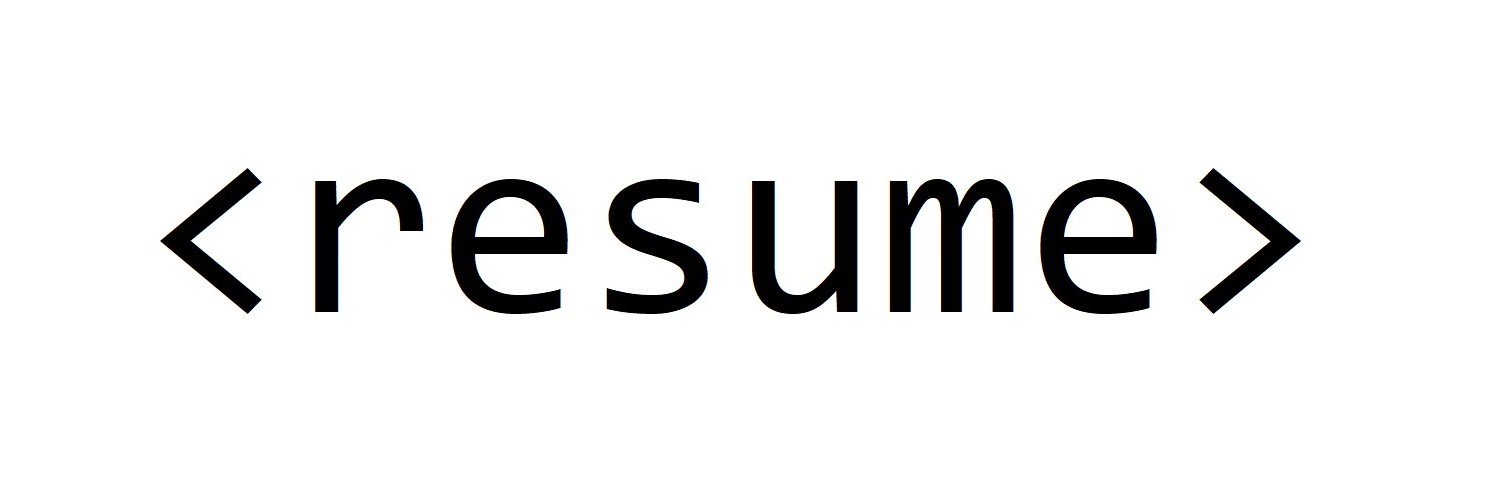
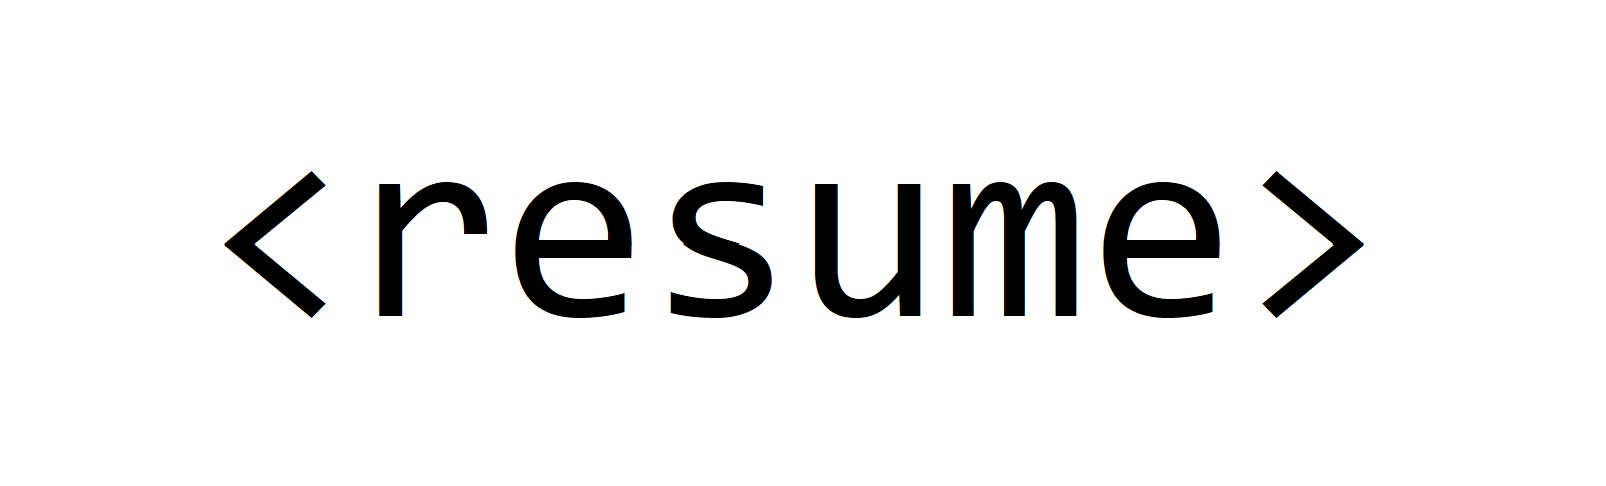
resume background

Changed region(s): [[0.0921, 0.3515, 0.8905, 0.6736], [0.522, 0.6444, 0.5527, 0.6736], [0.4299, 0.3515, 0.4606, 0.3808]]

diff --git a/index.html b/index.html
@@ -61,14 +61,13 @@
   </br>
   <div class="container" id="project">
     <div class="row justify-content-center align-items-center">
-      <div class="card" style="width: 60rem; border-radius:0.3em 0.3em;" >
+      <div class="card" style="width: 60rem; border-radius:0.3em 0.3em; background-color: #121212;" >
         <a href="https://resume.io/r/O9dMd3Ncn">
-        <img class="card-img" src="Assets/resume.jpg" alt="Card image cap">
+        <img class="card-img" src="Assets/resume1.jpg" alt="Card image cap">
         </a>
         <div class="card-body">
         </div>
       </div>
-
     <div class="card" style="width: 30rem;">
       <a href="https://juliebishopphotos.github.io/staticstore/">
       <img class="card-img-top" src="Assets/StaticStore.jpg" alt="Card image cap">
